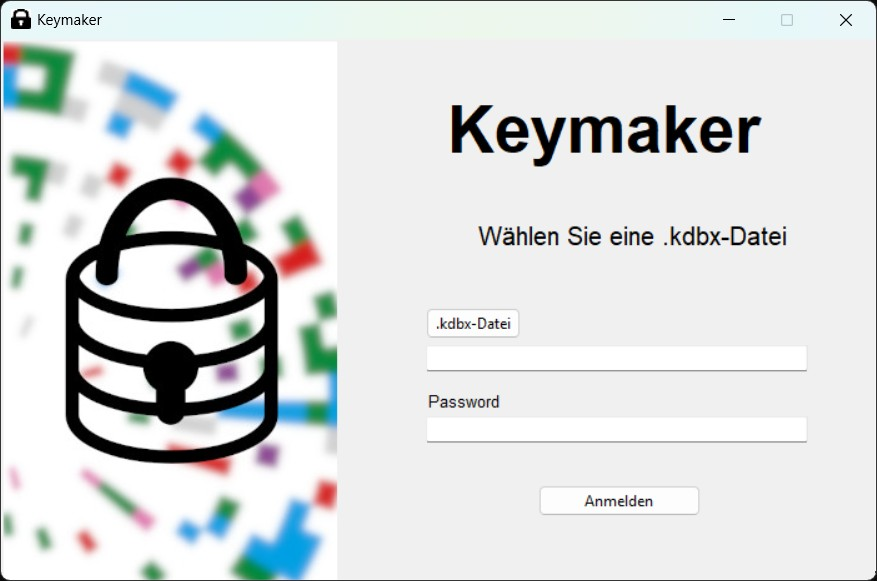
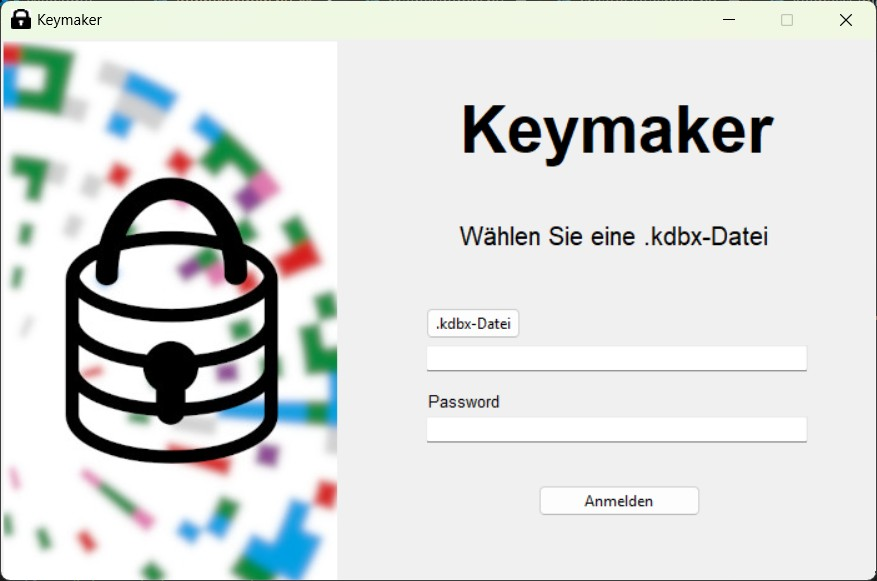
loginWindow verbessert

diff --git a/loginWindow.py b/loginWindow.py
@@ -34,8 +34,8 @@ login_button = ttk.Button(text="Anmelden", width=20)
 # Layout login_window
 
 image_label.place(x=0,y=0)
-keymakerHeader.place(x=355,y=40)
-datenbankAuswahlMeldung.place(x=380,y=144)
+keymakerHeader.place(x=365,y=40)
+datenbankAuswahlMeldung.place(x=365,y=144)
 error_message.place(x=400,y=180)
 
 browse_database.place(x=340,y=215)

diff --git a/readme.md b/readme.md
@@ -1,1 +1,3 @@
 # VWL Keymaker
+
+### Screenshots
